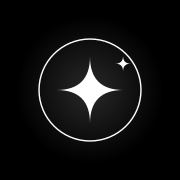
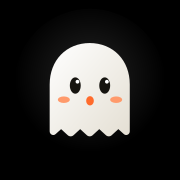
feat: ícone do PWA vira o Fantasminha

Changed region(s): [[0.1944, 0.1944, 0.8056, 0.8056]]

diff --git a/app/manifest.ts b/app/manifest.ts
@@ -13,9 +13,9 @@ export default function manifest(): MetadataRoute.Manifest {
     background_color: "#000000",
     theme_color: "#000000",
     icons: [
-      { src: "/icons/icon-192.png?v=3", sizes: "192x192", type: "image/png", purpose: "any" },
-      { src: "/icons/icon-512.png?v=3", sizes: "512x512", type: "image/png", purpose: "any" },
-      { src: "/icons/icon-maskable-512.png?v=3", sizes: "512x512", type: "image/png", purpose: "maskable" },
+      { src: "/icons/icon-192.png?v=4", sizes: "192x192", type: "image/png", purpose: "any" },
+      { src: "/icons/icon-512.png?v=4", sizes: "512x512", type: "image/png", purpose: "any" },
+      { src: "/icons/icon-maskable-512.png?v=4", sizes: "512x512", type: "image/png", purpose: "maskable" },
     ],
   };
 }

diff --git a/app/layout.tsx b/app/layout.tsx
@@ -8,8 +8,8 @@ export const metadata: Metadata = {
     "BETO IA — Assistente pessoal de voz e texto alimentado por IA.",
   manifest: "/manifest.webmanifest",
   icons: {
-    icon: [{ url: "/icons/icon.svg?v=3", type: "image/svg+xml" }],
-    apple: [{ url: "/apple-icon.png?v=3", sizes: "180x180" }],
+    icon: [{ url: "/icons/icon.svg?v=4", type: "image/svg+xml" }],
+    apple: [{ url: "/apple-icon.png?v=4", sizes: "180x180" }],
   },
   appleWebApp: {
     capable: true,
